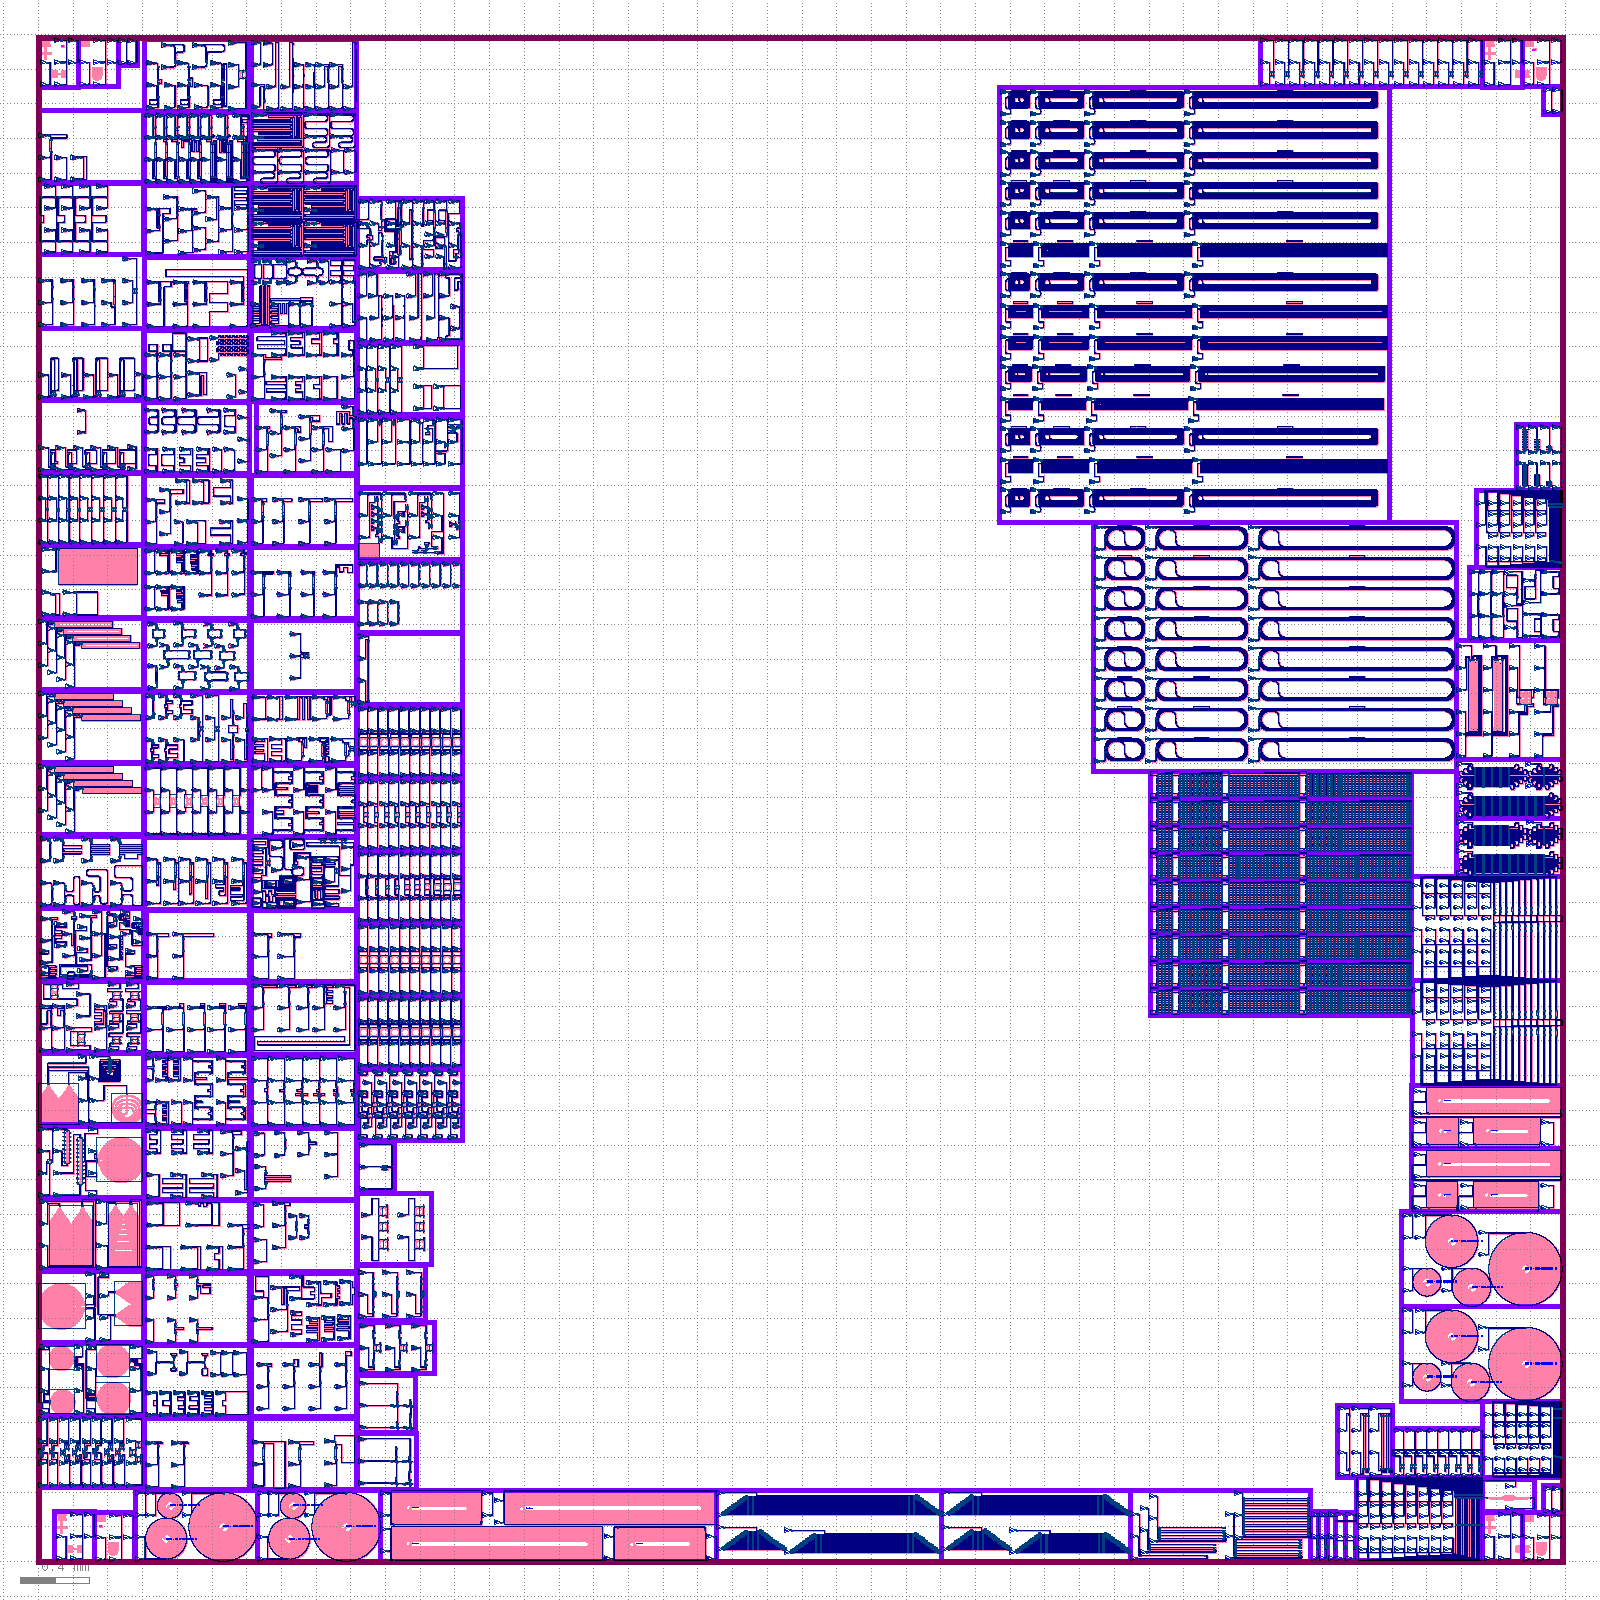
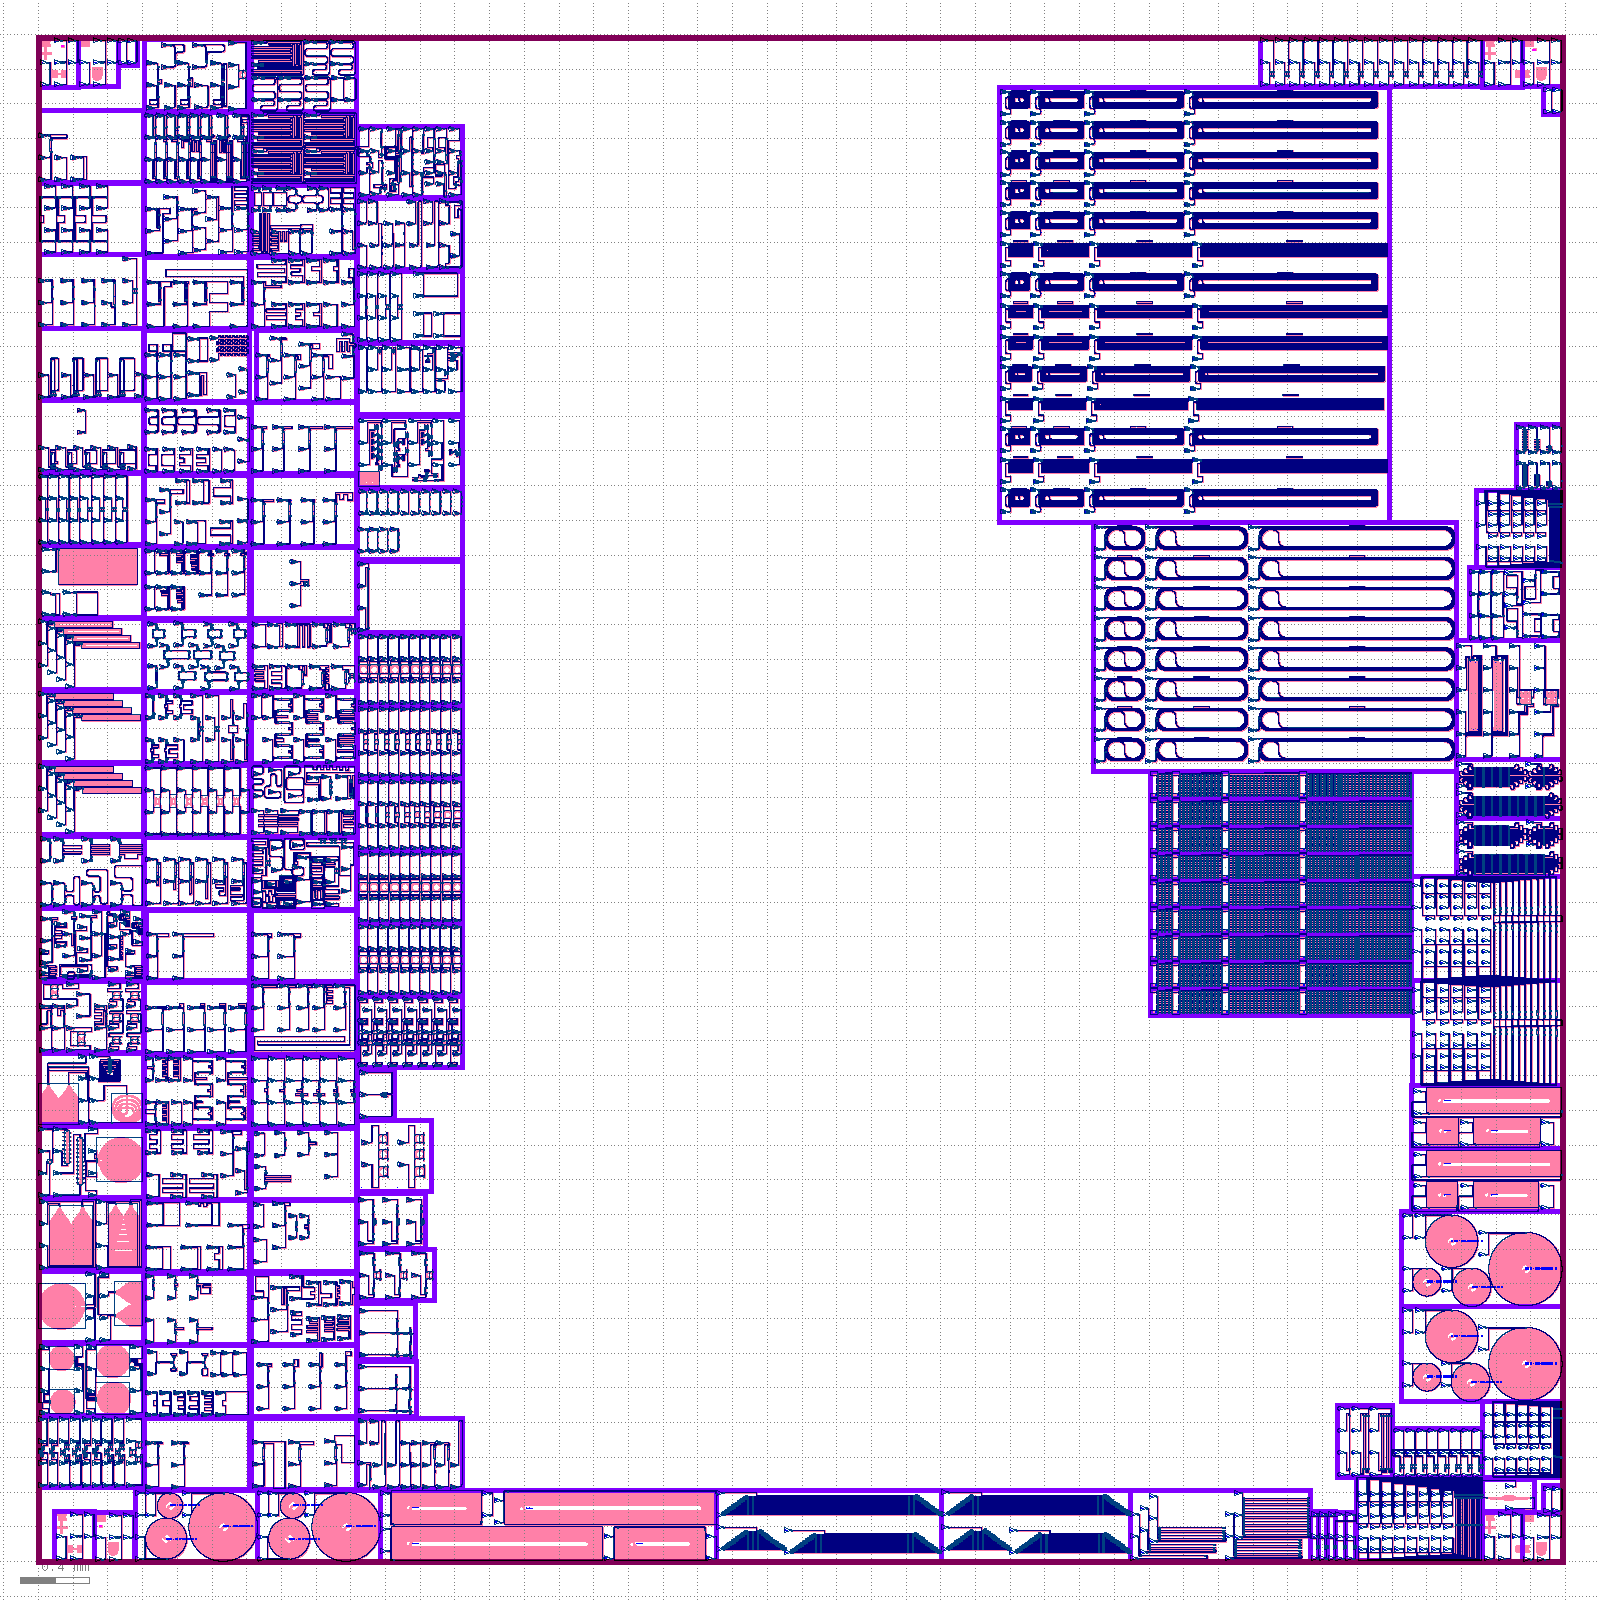
Aggregation layout: https://github.com/SiEPIC/openEBL-2026-05/actions/runs/25909360817/artifacts/7013547699

Changed region(s): [[0.1562, 0.0, 0.3125, 0.9375]]

diff --git a/README.md b/README.md
@@ -91,5 +91,5 @@ Will be added here.
 
 Click on the following link to download the EBeam.oas merged layout file:
 <!-- start-link -->
-https://github.com/SiEPIC/openEBL-2026-05/actions/runs/25899186229/artifacts/7009746051
+https://github.com/SiEPIC/openEBL-2026-05/actions/runs/25909360817/artifacts/7013547699
 <!-- end-link -->